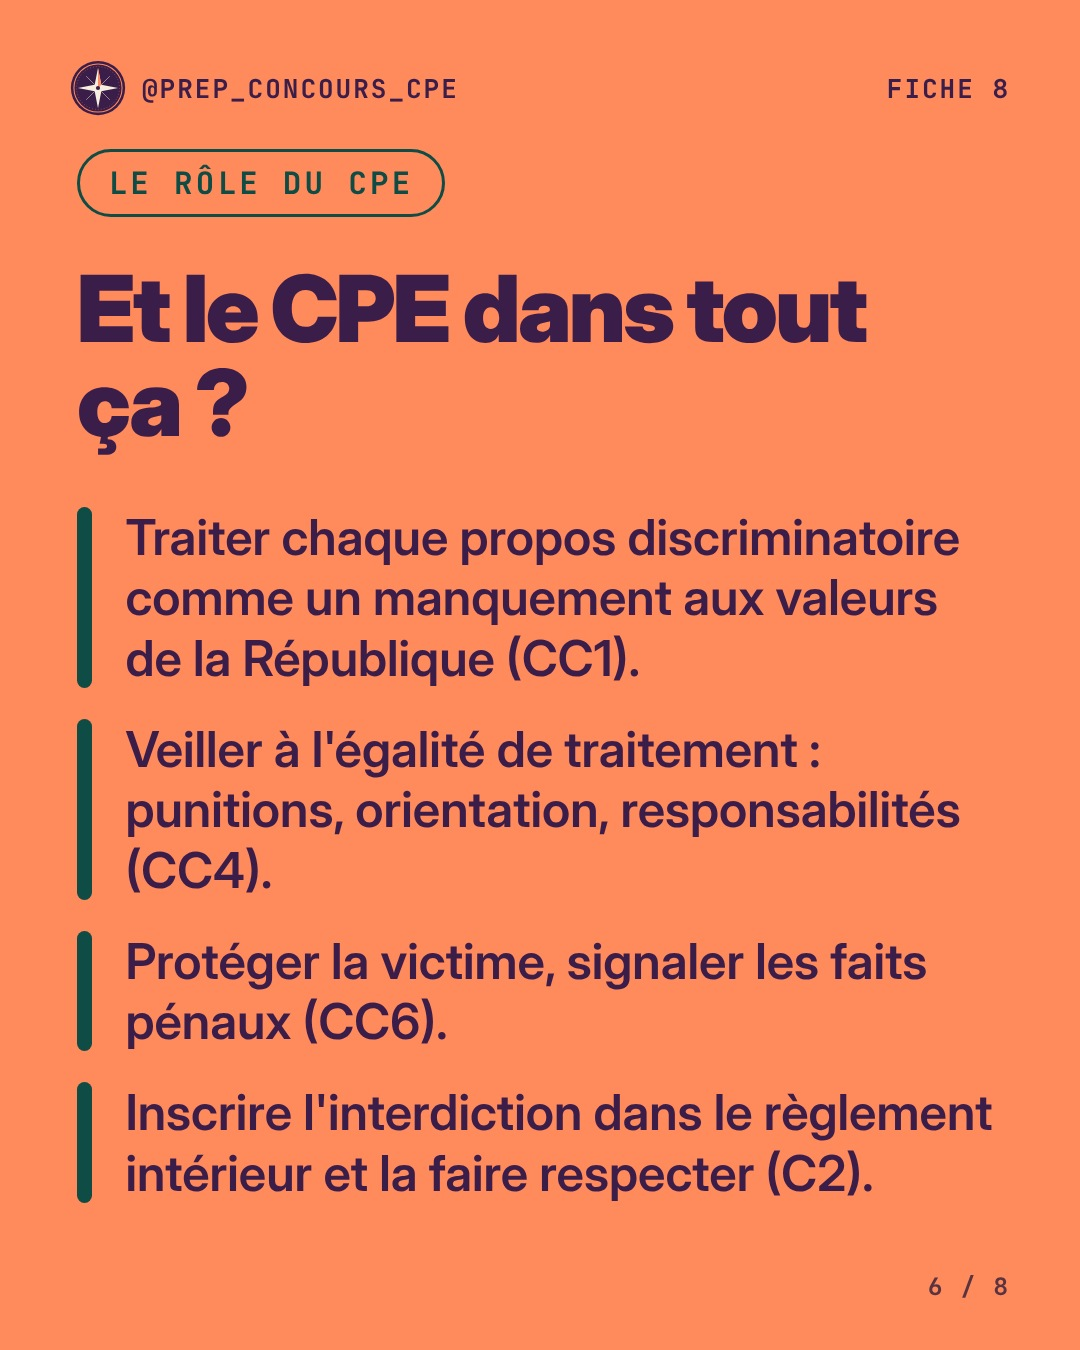
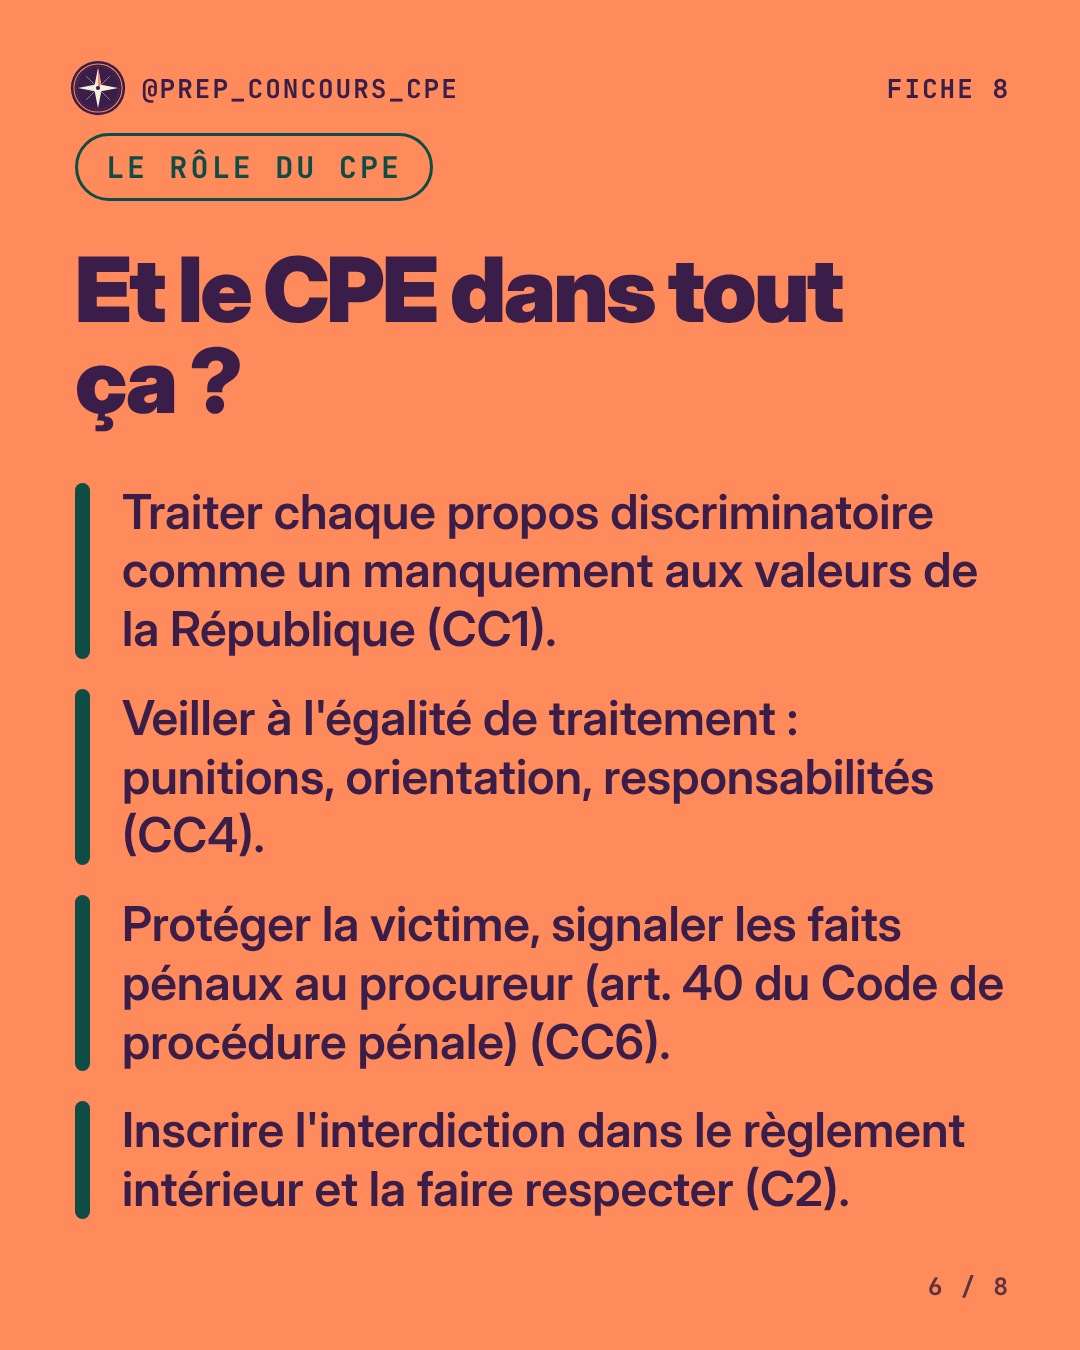
Carrousel du 14 nov : art. 40 du CPP pour le signalement au procureur
Claude-Session: https://claude.ai/code/session_01FvtqKV6WczsFieuhhj4vMF

Changed region(s): [[0.0611, 0.0933, 0.9472, 0.9022]]

diff --git a/posts/auto/2026-11-14/LEGENDE.md b/posts/auto/2026-11-14/LEGENDE.md
@@ -1,3 +1,3 @@
-Les 4 textes à connaître sur les discriminations. Code pénal, art. 225-1 et 225-2 : la définition et les critères interdits. Loi du 29 juillet 1881 : injures et provocations à la haine, des délits. Code de l'éducation, art. L. 121-1 : mixité et égalité entre les femmes et les hommes, avec un référent égalité dans chaque établissement. Circulaire du 29 septembre 2021 sur l'identité de genre en milieu scolaire : prénom choisi avec l'accord des deux représentants légaux. Le rôle du CPE : veiller à l'égalité de traitement, faire respecter le règlement intérieur, protéger la victime et signaler les faits pénaux. Candidats et candidates, enregistre ce post pour tes révisions. Tout est dans la fiche 8 de Prep'CPE, avec le quiz. Lequel de ces textes te manquait ? Dis-le en commentaire. Lien en bio.
+Les 4 textes à connaître sur les discriminations. Code pénal, art. 225-1 et 225-2 : la définition et les critères interdits. Loi du 29 juillet 1881 : injures et provocations à la haine, des délits. Code de l'éducation, art. L. 121-1 : mixité et égalité entre les femmes et les hommes, avec un référent égalité dans chaque établissement. Circulaire du 29 septembre 2021 sur l'identité de genre en milieu scolaire : prénom choisi avec l'accord des deux représentants légaux. Le rôle du CPE : veiller à l'égalité de traitement, faire respecter le règlement intérieur, protéger la victime et signaler les faits pénaux au procureur (art. 40 du Code de procédure pénale). Candidats et candidates, enregistre ce post pour tes révisions. Tout est dans la fiche 8 de Prep'CPE, avec le quiz. Lequel de ces textes te manquait ? Dis-le en commentaire. Lien en bio.
 
 #concourscpe #cpe2027 #prepaconcours #conseillerprincipaldeducation #viescolaire #discriminations #textes
